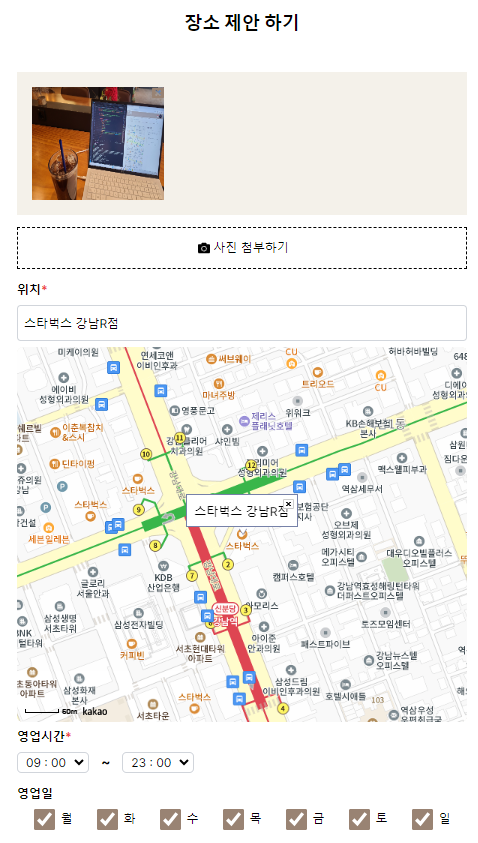
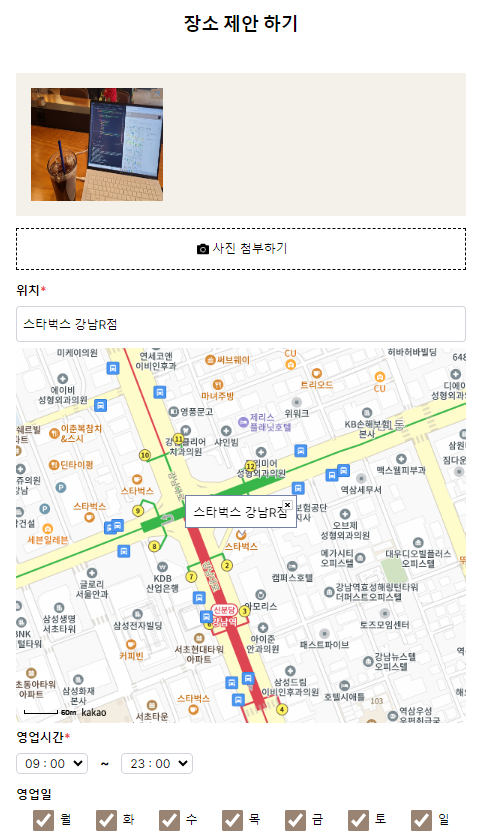
메인 인포메이션3 UI 애니메이션 추가 및 배경변경

diff --git a/src/app/components/Main/Info3.tsx b/src/app/components/Main/Info3.tsx
@@ -1,0 +1,70 @@
+'use client'
+import Image from 'next/image'
+import React, { useEffect, useState } from 'react'
+import { FaHandPointLeft } from 'react-icons/fa'
+
+const Info3 = () => {
+  const [isVisible, setIsVisible] = useState(false);
+
+  useEffect(() => {
+    const handleScroll = () => {
+      const scrollY = window.scrollY;
+      console.log(scrollY)
+
+      setIsVisible(scrollY > 1600);
+
+    };
+
+    window.addEventListener('scroll', handleScroll);
+
+    return () => {
+      window.removeEventListener('scroll', handleScroll);
+    };
+  }, []);
+
+  return (
+    <div className='overflow-hidden'>
+      {/* 스타벅스 강남R점 검색 결과 없음 */}
+      <div className={`absolute top-[8rem] sm:scale-75 sm:-translate-x-36 sm:top-[115px] 
+                      ${`transform ${isVisible ? 'translate-y-0' : '-translate-y-[16rem]'} transition-all duration-500 ease-in-out -mt-14`}}`}>
+        <Image
+          src={'/main/noresult.png'} 
+          width={400}
+          height={100}
+          alt='propose' 
+          className='rounded-2xl'
+        />  
+        {/* 장소 제안하기 화살표 */}
+        <div className='absolute bottom-[0.9rem] right-32 animate-[wiggle_1s_ease-in-out_infinite] text-sygnature-brown '>
+          <FaHandPointLeft />
+        </div>
+      </div>
+      {/* 장소 제안하기  */}
+      <div className={`absolute top-6 translate-x-44 
+                      ${`transform ${isVisible ? 'translate-x-44' : 'translate-x-[60rem]'} transition-all duration-500 ease-in-out -mt-14`}}`}>
+        <Image
+          src={'/main/propose2.png'} 
+          width={479}
+          height={838}
+          alt='propose' 
+          className='rounded-2xl scale-75'
+        /> 
+      </div>
+      <div className={`absolute top-56 -translate-x-40 w-88 h-96 text-right p-0 sm:-translate-x-28
+                      ${`transform ${isVisible ? '-translate-y-0' : 'translate-y-[32rem]'} transition-all duration-500 ease-in-out -mt-14`}}`}>
+        <span className='text-5xl text-white'>
+          SHAR<span className='font-bold text-black'>E</span><br />
+          YOU<span className='font-bold text-black'>R</span><br />
+          STUD<span className='font-bold text-black'>Y</span><br />
+          SPAC<span className='font-bold text-black'>E</span><br />
+        </span>
+        <span className='text-white'>
+          나의 <span className='font-bold'>스터디</span> 장소를 <br />
+          <span className='font-bold'>工間</span>과 공유하세요 <br />
+        </span>
+      </div>
+    </div>
+  )
+}
+
+export default Info3

diff --git a/src/app/components/MainInfo3.tsx b/src/app/components/MainInfo3.tsx
@@ -1,30 +1,22 @@
 import React from 'react'
 import { Inter } from 'next/font/google'
 import Image from 'next/image'
+import { FaHandPointLeft } from 'react-icons/fa'
+import Info3 from './Main/Info3'
 
 const inter = Inter({ subsets: ['latin'] })
 
 
 const MainInfo3 = () => {
   return (
-    <div className={`h-screen ${inter.className} relative z-10 bg-[url('/main/studycafe2.jpg')] bg-no-repeat bg-fixed bg-contain bg-center sm:bg-cover bg-white`}>
-      <div className='absolute translate-y-44 sm:scale-75'>
-        <Image
-          src={'/main/noresult.png'} 
-          width={600}
-          height={450}
-          alt='propose' 
-          className='rounded-3xl'
-        /> 
-      </div>
-      <div className='absolute right-0 sm:scale-75'>
-        <Image
-          src={'/main/propose2.png'} 
-          width={600}
-          height={450}
-          alt='propose' 
-          className='rounded-3xl'
-        /> 
+    <div className={`h-[100vh] ${inter.className} relative z-10 bg-[url('/main/studycafe3.jpg')] bg-no-repeat bg-fixed bg-contain bg-center sm:bg-cover bg-white flex justify-center opacity-90 overflow-hidden`}>
+      <div className=''>
+        {/* 스터디 장소를 제안할 수 있어요 */}
+        <div className='mt-8'>
+          <span className='text-4xl font-bold text-white'>스터디 장소를 제안할 수 있어요.</span>
+        </div>
+        <Info3 />
+        
       </div>
     </div>
   )

diff --git a/src/app/components/MainInfo1.tsx b/src/app/components/MainInfo1.tsx
@@ -9,13 +9,13 @@ const inter = Inter({ subsets: ['latin'] })
 
 const MainInfo1 = () => {
   return (
-    <div className={`sm:h-[90vh] h-screen ${inter.className} relative z-0 bg-[url('/main/studycafe1.jpg')] bg-no-repeat bg-fixed bg-contain bg-center sm:bg-cover bg-white`}>
+    <div className={`sm:h-[100vh] h-screen ${inter.className} relative z-0 bg-[url('/main/studycafe1.jpg')] bg-no-repeat bg-fixed bg-contain bg-center sm:bg-cover bg-white opacity-90`}>
       {/* 내 집 근처에서 편하게 공부할 수 있는 공간. */}
       <div className='absolute w-full text-center translate-y-12'>
-        <span className='text-4xl font-bold text-white'>내 집 근처에서 편하게 공부할 수 있는 공간.</span>
+        <span className='text-4xl font-extrabold text-white'>내 집 근처에서 편하게 공부할 수 있는 공간.</span>
       </div>
       <div className='absolute w-full text-center translate-y-28'>
-        <span className='text-xl text-white opacity-80'>지도에서 한눈에 찾아보세요 !</span>
+        <span className='text-xl font-bold text-white'>지도에서 한눈에 찾아보세요 !</span>
       </div>
       {/* 지도사진 */}
       <div className='absolute w-full flex justify-center translate-y-44'>

diff --git a/src/app/components/Map.tsx b/src/app/components/Map.tsx
@@ -45,7 +45,7 @@ export default memo(function Map({ lat, lng, zoom }: MapProps) {
         src={`//dapi.kakao.com/v2/maps/sdk.js?appkey=${process.env.NEXT_PUBLIC_KAKAO_MAP_CLIENT}&autoload=false`}
         onReady={loadKakaoMap}
       />
-      <div id="map" className="w-full h-[700px] rounded-lg sm:h-[500px] md:w-full"></div>
+      <div id="map" className="w-full h-[700px] rounded-lg sm:h-[500px] sm:w-[40rem] sm:translate-x-2 md:w-full"></div>
     </>
   )
 })

diff --git a/src/app/propose/Propose.tsx b/src/app/propose/Propose.tsx
@@ -381,8 +381,9 @@ const Propose = ({ session }: any) => {
           </ul>
         </div>
         {/* 지도 */}
-        <Map />
-
+        <div className="sm:-translate-x-7">
+          <Map />
+        </div>
         <div className="font-semibold mt-2">
           영업시간<span className="text-red-500 font-bold">*</span>
         </div>

diff --git a/src/app/components/ProposeList.tsx b/src/app/components/ProposeList.tsx
@@ -432,7 +432,9 @@ const ProposeList = ({ session, params }: any) => {
           </ul>
         </div>
         {/* 지도 */}
-        <Map />
+        <div className="sm:-translate-x-7">
+          <Map />
+        </div>
 
         <div className="font-semibold mt-2">
           영업시간<span className="text-red-500 font-bold">*</span>

diff --git a/tailwind.config.ts b/tailwind.config.ts
@@ -48,8 +48,8 @@ const config: Config = {
       },
       keyframes: {
         wiggle: {
-          '0%, 100%': { transform: 'rotate(-3deg)' },
-          '50%': { transform: 'rotate(3deg)' },
+          '0%': { transform: 'translateX(0)' },
+          '100%': { transform: 'translateX(-100%)' },
         },
       }
     },

diff --git a/next.config.js b/next.config.js
@@ -1,6 +1,7 @@
 /** @type {import('next').NextConfig} */
 const nextConfig = {
-  
+  reactStrictMode: true,
+  poweredByHeader: false,
   images: {
     remotePatterns: [
       {
